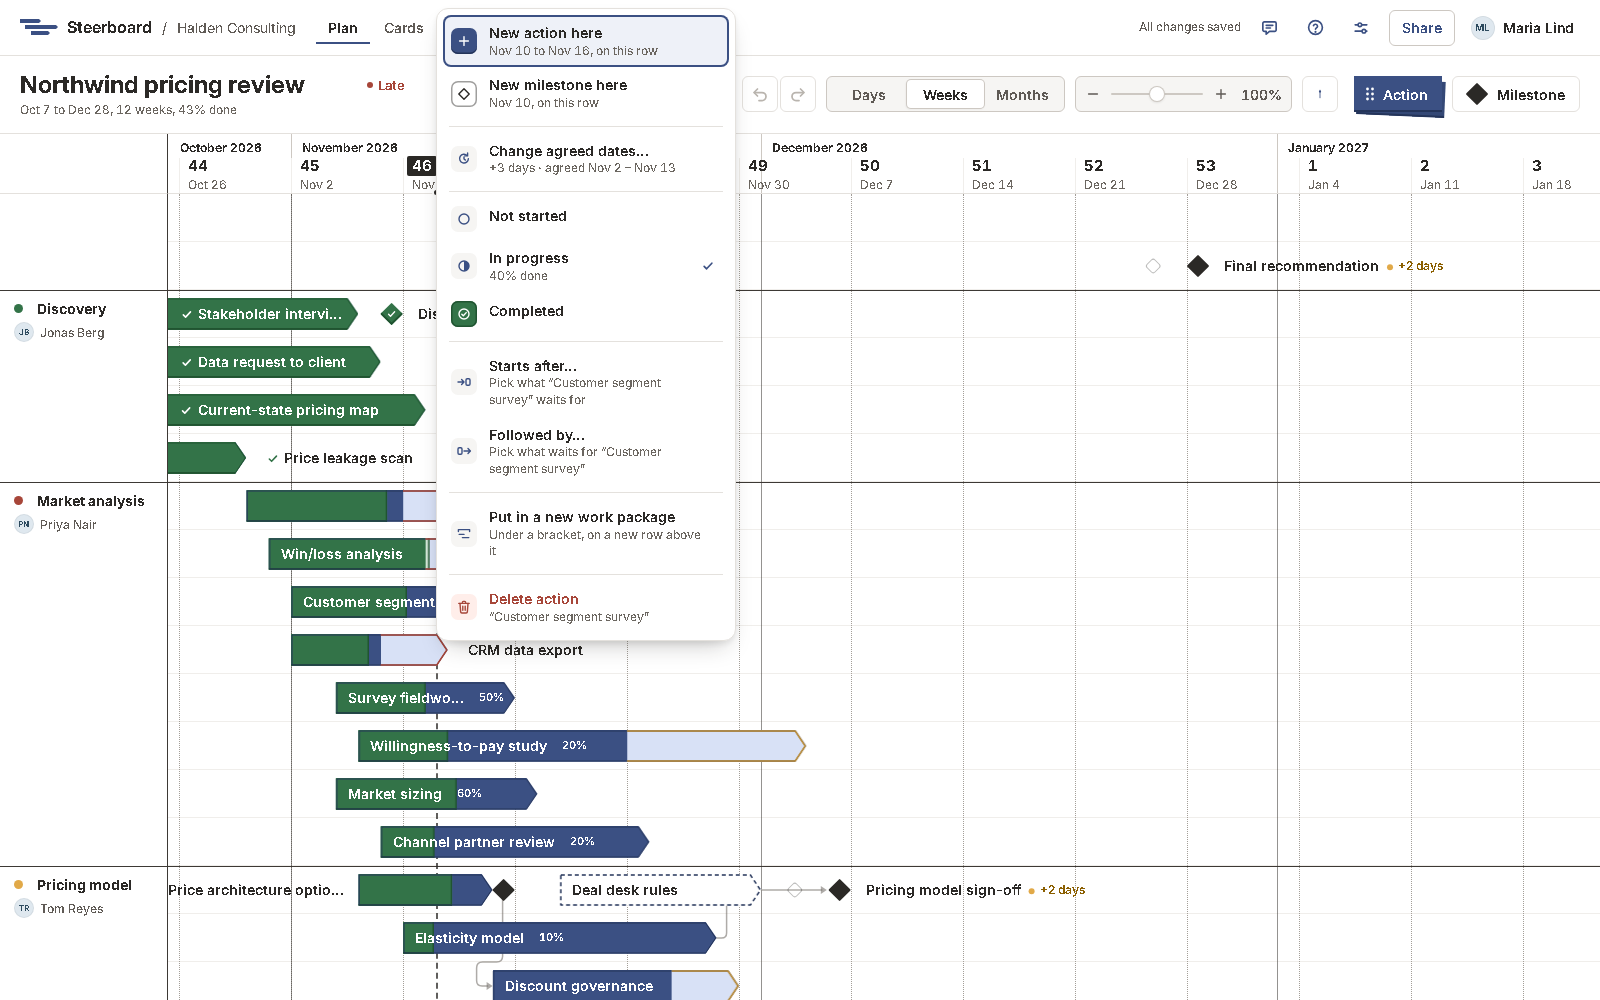
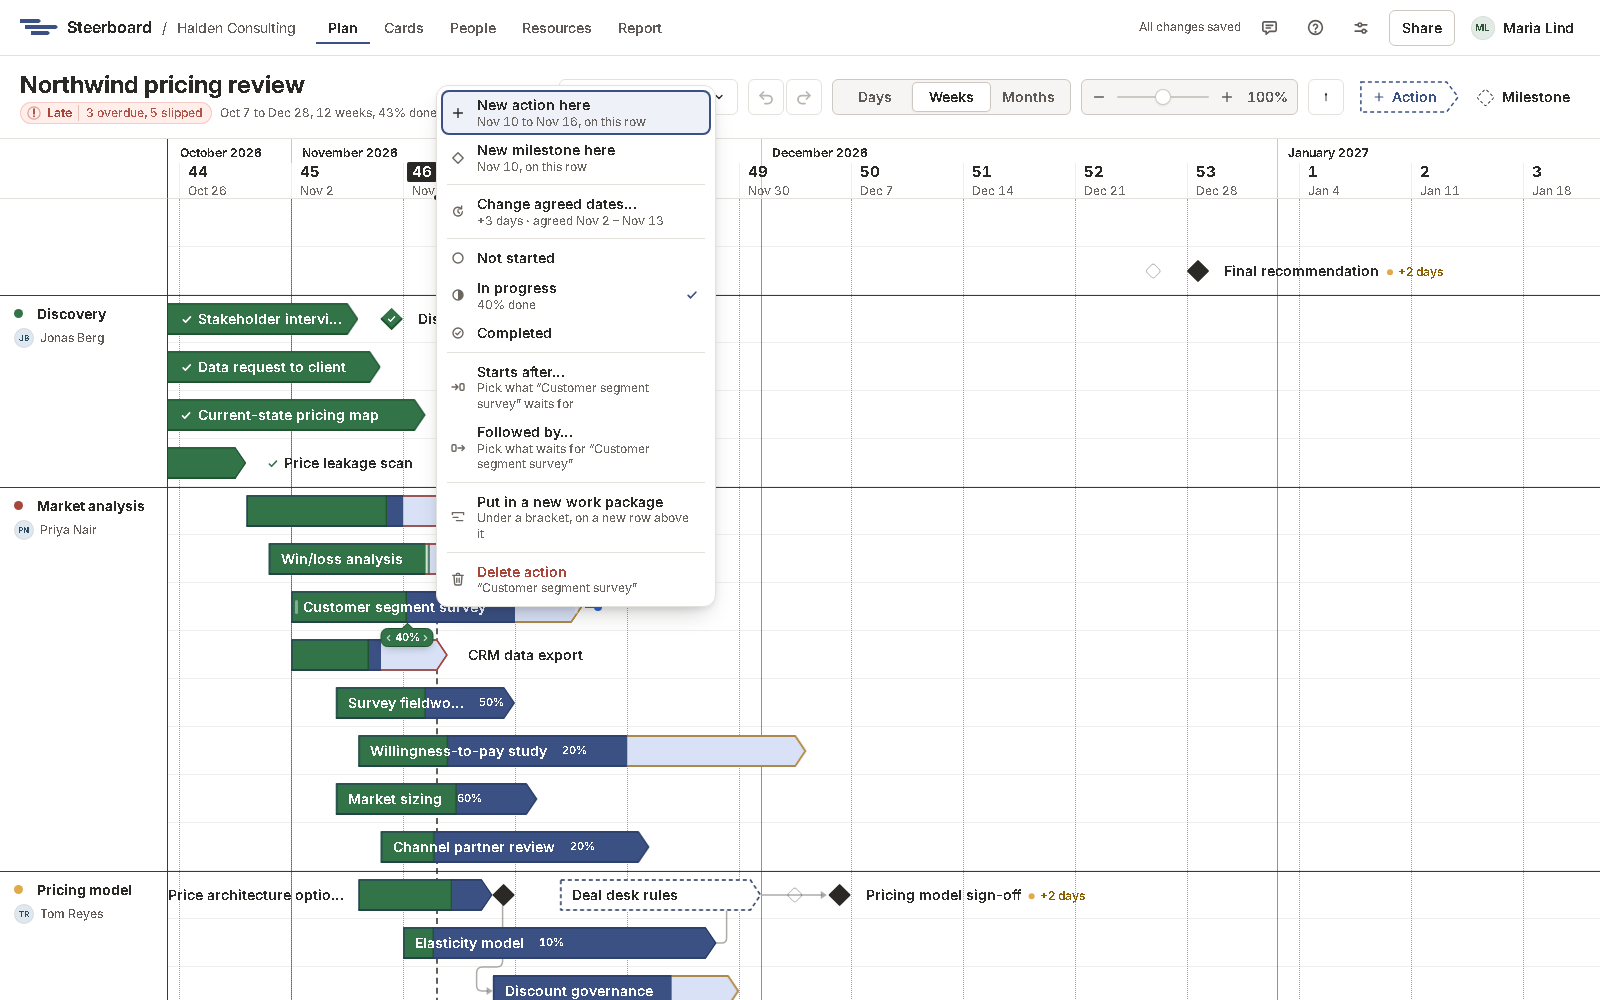
People are added on the Groups page, with an email; a project's People picks from them
Groups: Add someone asks name, email (who they are, one per person in the
account), group, role (their job) and type: doesn't sign in (on plans only)
or signs in (an invitation, member or account manager; account managers
only). It replaces Invite by email. Email and role can be changed there.
Migration 11 adds people.email and people.title (SCENARIOS.md, G9, G10).

A project's People tab picks its team from the account's people, with their
role (starting as their job) and time on the project; no new people or
groups there (G11).

Also: the plan's status badge sits under its name, beside the dates; docs,
screenshots and the cards deselect check (Q13).

diff --git a/pages/sharing/groups.md b/pages/sharing/groups.md
@@ -16,6 +16,9 @@ Choose **Groups** in the header.
 - Some people **sign in**: they have an account login and see the projects
   shared with them. Others don't sign in at all: they're on the plan as owners
   of work (a client's finance director, say) without needing a login.
+- Everyone has an email, which is who they are: no two people in an account
+  share one. Their role (their job, such as Data scientist) is what a
+  project's team starts them as.
 - Someone who signs in is in one group.
 
 ## Groups
@@ -24,7 +27,7 @@ Choose **Groups** in the header.
 |---|---|
 | Make a group | Choose **New group**. Account managers can do this. |
 | Rename it, recolour it, or mark it outside the delivery team | Choose its pencil. Changes apply on every project. |
-| Add someone to it | Choose its +. |
+| Add someone to it | Choose its +, or **Add someone** at the top of the page. |
 | Delete it | From its pencil, when nobody is in it, it owns no projects and it's on no project's team. |
 
 A group *outside the delivery team* (a client or vendor) shows as
@@ -32,18 +35,26 @@ A group *outside the delivery team* (a client or vendor) shows as
 
 ## People
 
-Each person's row says whether they sign in and how many projects they're on.
-Their menu (the three dots) holds the rest. For someone who doesn't sign in:
-**Rename**, **Give sign-in…** and **Remove from the account…**. For someone
-who does, account managers can **Make an account manager**,
+Choose **Add someone** (or a group's +) and fill in their name, **Email**,
+**Role** and, at the top of the page, **Group**. Then their **Type**:
+
+| Type | What happens |
+|---|---|
+| **Doesn’t sign in** | They're on plans, to own work, with no access to Steerboard. |
+| **Signs in** | They're sent an invitation by email, as a member or an account manager, and take a seat. Only account managers add them. |
+
+Each person's row says their role, their email, whether they sign in and how
+many projects they're on. Their menu (the three dots) holds the rest. For
+someone who doesn't sign in: **Edit name, email and role**, **Give sign-in…**
+and **Remove from the account…**. For someone who does: **Change their role**,
+and for account managers **Make an account manager**,
 **Set a temporary password…** or **Turn access off**.
 
-- To give someone a sign-in, choose **Give sign-in…** in their menu and enter
-  their email. When they accept the invitation, the person already on your
+- To give someone who doesn't sign in a sign-in later, choose **Give sign-in…**
+  in their menu. When they accept the invitation, the person already on your
   plans becomes them, with all their work.
-- To bring in someone new, choose **Invite by email** at the top of the page.
-- People who sign in change their own name in **Settings**, and only account
-  managers move them between groups.
+- People who sign in change their own name and email in **Settings**, and only
+  account managers move them between groups.
 
 ## Letting owners invite
 

diff --git a/pages/plan/details.md b/pages/plan/details.md
@@ -5,6 +5,12 @@ board can also be done here, with the keyboard and in words.
 
 ![The details panel](../img/plan-details.png)
 
+Under the name, first, is where it stands: **Draft**, **Planned**,
+**In progress** or **Done**, how it's tracking (late or slipped, with by how
+much), and what's next. A draft has its **Agree** button there: it must be
+agreed before it can start. Agreed work has its status there (**Not started**,
+**In progress** or **Completed**) and a progress slider, in steps of 10%.
+
 | Field | What it does |
 |---|---|
 | Name | Click the title to rename it. |
@@ -14,8 +20,8 @@ board can also be done here, with the keyboard and in words.
 | **Work package** | Puts the item in a work package, or takes it out of one. |
 | **Owner** | Who does it, picked from the project's team. A work package's owner is its lead. |
 | **Time on this** | How much of the owner's week it takes: full time, 3 days a week, a day a week, and so on. |
-| **Agreed dates** | Draft or agreed. For agreed work: the agreed and planned dates, and how it's tracking. **Change agreed dates…** for a change of scope. |
-| **Status** | **Not started**, **In progress** or **Completed**, with a progress slider in steps of 10%. A completed item shows **Completed on**. |
+| **Agreed dates** | For agreed work: the agreed and planned dates, and how it's tracking. **Change agreed dates…** for a change of scope. |
+| **Completed on** | For finished work: the day it was finished, which can be corrected. |
 | Starts after, Followed by | Its [links](links.md), with **Add** and ×. |
 | Notes | Anything worth keeping with the work. |
 | History | Changes to its agreed dates, with reasons, and corrected completion days. |

diff --git a/pages/people.md b/pages/people.md
@@ -13,19 +13,18 @@ colour that tints its people's initials everywhere in the project. A group
 outside the delivery team (the client, a vendor) carries a small
 **Waiting on** tag.
 
-The team is picked from your account's [groups and people](sharing/groups.md),
-so the same person is the same person on every project.
+This screen is for following the work. The team is picked from your account's
+[groups and people](sharing/groups.md), so the same person is the same person
+on every project; someone new, and anyone's name, email and group, are set on
+the Groups page.
 
 | To | Do this |
 |---|---|
-| Add someone | Choose **Add person**. Pick them from your groups, or add someone new with their name and group. Then set their role on this project and how many days a week they can give it. |
-| Add a group | Choose **Add group**, and pick one of your account's groups or make a new one. |
+| Add someone | Choose **Add to team**, pick them from your groups, then set their role on this project (it starts as their role on the Groups page) and how many days a week they can give it. Their group comes with them. |
 | Change someone's role or days | Point at them and choose the pencil. |
 | Take someone off the team | Point at them, choose the pencil, then **Take off team…**. Their work stays, without an owner. |
 
-A person's name and group belong to the account, so changing them here
-changes them on every project. Someone who signs in changes their own name in
-**Settings**.
+The days shown are working days, as on the plan: no weekends.
 
 ## Who's working on what
 

diff --git a/pages/plan/workstreams.md b/pages/plan/workstreams.md
@@ -16,7 +16,7 @@ Every plan has at least one. A new plan starts with **Workstream 1**.
 | To | Do this |
 |---|---|
 | Add one | Right-click a row and choose **Start a workstream here**: that row and the ones below it in its section become a workstream. Or choose **New workstream** under the names, or right-click free space. |
-| Rename it | Click its name and choose **Rename**, or double-click the name. |
+| Rename it | Click its name and choose **Rename**, or double-click the name. A name starts with a capital letter. |
 | Give it a lead | Click its name and choose **Set lead…**. The lead shows under the name, on the cards' lanes and in the report. |
 | Move it | Drag its name up or down. A line shows where it goes; its rows and work move with it. Or use **Move up** and **Move down**. |
 | Add a row to it | Click its name and choose **Add a row**. |

diff --git a/pages/cards.md b/pages/cards.md
@@ -28,7 +28,8 @@ Drag it to another column, and it makes the same change the plan would:
 - **Identified** puts unstarted work back to a draft.
 
 Work with agreed dates can't go back to **Identified** (change its agreed
-dates instead), and milestones skip **Started**, since they're done or not. While you drag, a
+dates instead), a draft goes to **Planned** before it can start or be done,
+and milestones skip **Started**, since they're done or not. While you drag, a
 column a card can't go to is hatched, and says why.
 
 On a phone or tablet, swiping scrolls the board. To move a card, press and

diff --git a/pages/plan/agreed-dates.md b/pages/plan/agreed-dates.md
@@ -13,7 +13,7 @@ Move it as much as you like. A draft is never late.
 When the client agrees, agree the dates:
 
 - Right-click a draft and choose **Agree dates**.
-- Or use **Agree** in the [details panel](details.md).
+- Or use **Agree** at the top of the [details panel](details.md).
 - Or select several drafts and agree them together.
 - On a work package's bracket, **Agree dates for everything inside**.
 - On the [cards](../cards.md), drag a card from **Identified** to **Planned**.

diff --git a/pages/getting-started/account.md b/pages/getting-started/account.md
@@ -15,7 +15,7 @@ Fill in:
 
 Then choose **Start the account**. You're signed in straight away, and you're
 the account's *account manager*: you can invite people, make groups and
-change the account's settings. The account starts with a demo project to look
+change the account's settings. The account starts with two projects to look
 around in (see [Your first project](first-project.md)).
 
 ## Joining a colleague's account

diff --git a/pages/plan/items.md b/pages/plan/items.md
@@ -16,7 +16,7 @@ A new activity lasts one working week unless you draw it to size. Type its
 name straight away; <kbd>Enter</kbd> keeps it.
 
 Everything you add starts as a draft, pencilled in with a dashed outline,
-until you [agree its dates](agreed-dates.md).
+until you [agree its dates](agreed-dates.md), and it can't start until then.
 
 ![The menu on an activity](../img/plan-menu.png)
 

diff --git a/pages/plan/progress.md b/pages/plan/progress.md
@@ -3,6 +3,9 @@
 An activity is **Not started**, **In progress** (with a percentage) or
 **Completed**. A milestone is completed or not.
 
+A draft can't start: agree its dates first (it's then **Planned**), and it can
+start. Until then it has no percentage tab, and its status can't be set.
+
 ## Set it
 
 - Drag the percentage tab that appears under an activity when you point at
